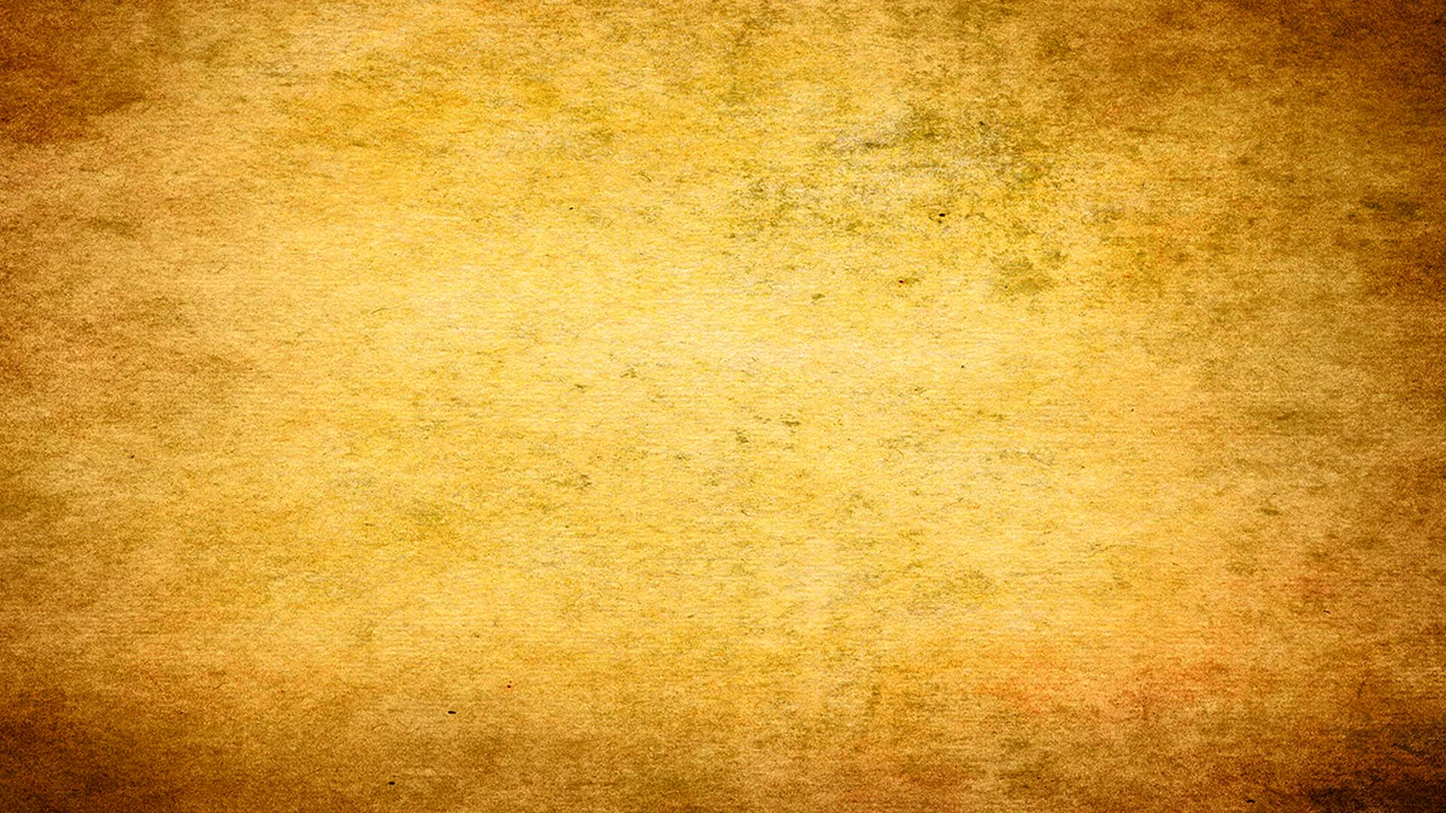
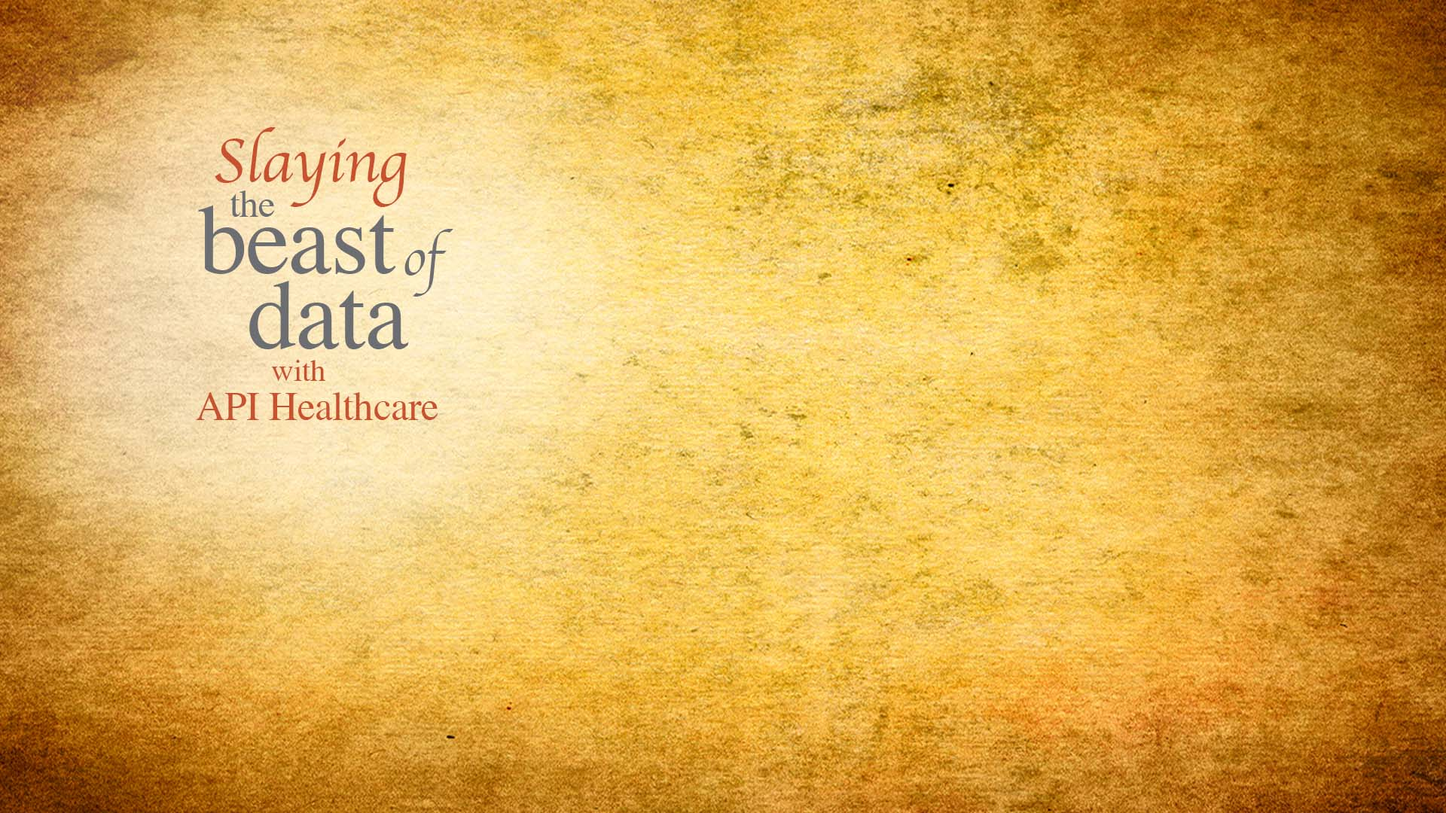
background

diff --git a/index.html b/index.html
@@ -140,7 +140,7 @@
 
 	</head>
 	<body style="background:transparent">
-		<img src="https://raw.githubusercontent.com/snapifeye/API-Health-Care/gh-pages/text.png" style="float:left">
+		<img src="https://raw.githubusercontent.com/snapifeye/API-Health-Care/gh-pages/text.png" style="float:left;padding:0px 0px 0px 100px;!important">
 
 		<snapifeye-widget class="full-screen" params="eventId: 187, period: 7500	, custom: true">
 			<!-- This content inside of there is optional. This will customize the left side text -->
